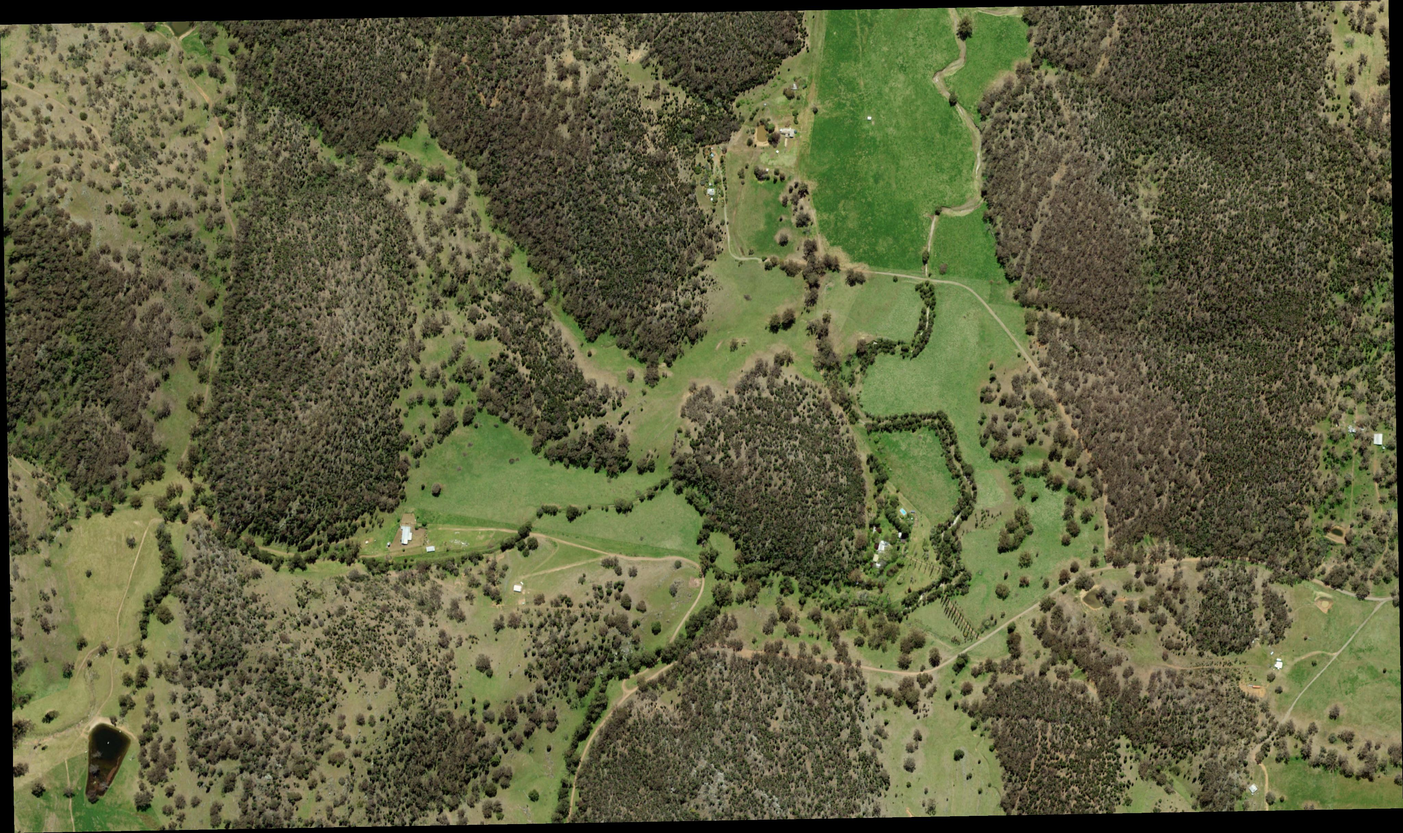
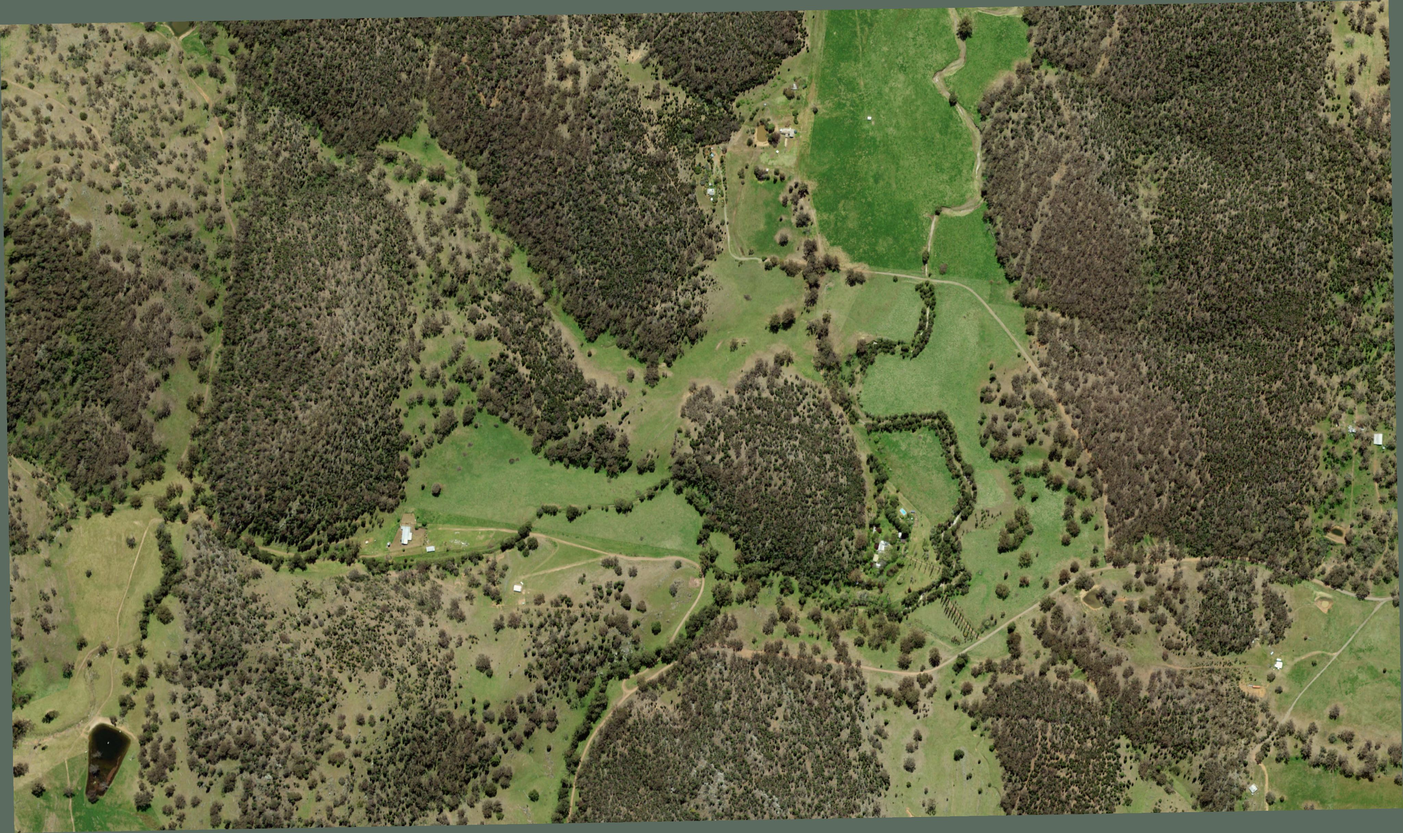
Add photos to entries and show the log on the property topo map
- Photos section: Take photo opens the camera, Choose from library picks
  one or more existing photos. Photos are shrunk to 1600 px, stored with
  the entry on the phone, shown as thumbnails in the form and the log,
  and open full screen when tapped. Edit keeps them; Log again starts
  without them. The CSV gains a photos_on_device count.
- The log history now draws entries on the property's topo map with the
  boundary and current position, and notes any entries outside the map.
  Falls back to the plain plot when no map is on the device.
- Example entries are placed on the property so they show on the map.
- Map images rebuilt without black edges from the reprojection.
- Offline cache bumped to v5.

Claude-Session: https://claude.ai/code/session_018RB8ziNUKSKUFR3o893bhx

Changed region(s): [[0.0, 0.3124, 1.0, 1.0], [0.0, 0.0, 0.875, 0.0312], [0.9688, 0.0, 1.0, 0.6872]]

diff --git a/index.html b/index.html
@@ -138,6 +138,7 @@ textarea { min-height: 84px; resize: vertical; }
 .filters button { border: 1px solid var(--line); background: transparent; border-radius: 999px; padding: 5px 12px; font-size: .85rem; min-height: 34px; }
 .filters button[aria-pressed="true"] { background: var(--ink); color: var(--surface); border-color: var(--ink); }
 .plot-box { background: var(--sunk); border-radius: var(--r); padding: 8px; }
+.plot-box .legend + .plot-note { margin-top: 2px; }
 .plot-box svg { display: block; width: 100%; height: auto; max-width: 100%; }
 .plot-box text { fill: var(--muted); font-family: var(--f-data); font-size: 9px; }
 .pt-control { fill: var(--control); } .pt-sighting { fill: var(--sight); } .pt-maintenance { fill: var(--maint); }
@@ -201,6 +202,26 @@ summary { cursor: pointer; font-weight: 700; }
 .mv-btns { display: flex; flex-wrap: wrap; gap: 8px; }
 .mv-btns .save { min-height: 46px; padding: 0 18px; flex: 1 1 180px; }
 .mv-btns .save:disabled { opacity: .45; }
+
+.photo-btns { display: flex; flex-wrap: wrap; gap: 8px; }
+.photo-btns .photo-take { background: var(--ink); color: var(--surface); border-color: var(--ink); }
+.thumbs { display: flex; flex-wrap: wrap; gap: 8px; }
+.thumbs:empty { display: none; }
+.thumb { position: relative; width: 84px; height: 84px; border-radius: 8px; overflow: hidden; border: 1px solid var(--line); background: var(--sunk); padding: 0; }
+.thumb img { width: 100%; height: 100%; object-fit: cover; display: block; }
+.thumb .rm { position: absolute; top: 4px; right: 4px; width: 26px; height: 26px; border-radius: 50%; border: 0; background: rgba(0,0,0,.65); color: #fff; font-size: 16px; line-height: 26px; padding: 0; }
+.ent-photos { display: flex; gap: 6px; flex-wrap: wrap; margin-top: 4px; }
+.ent-photos button { width: 64px; height: 64px; padding: 0; border: 1px solid var(--line); border-radius: 6px; overflow: hidden; background: var(--sunk); }
+.ent-photos img { width: 100%; height: 100%; object-fit: cover; display: block; }
+.lightbox { position: fixed; inset: 0; z-index: 25; background: rgba(0,0,0,.92); display: grid; grid-template-rows: minmax(0, 1fr) auto; gap: 12px;
+  padding: calc(16px + env(safe-area-inset-top, 0px)) 16px calc(16px + env(safe-area-inset-bottom, 0px)); }
+.lightbox img { width: 100%; height: 100%; object-fit: contain; }
+.lightbox .btn { justify-self: center; min-width: 140px; }
+.plot-map { position: relative; border-radius: 6px; overflow: hidden; }
+.plot-map img { display: block; width: 100%; height: auto; }
+.plot-map svg { position: absolute; inset: 0; width: 100%; height: 100%; }
+.plot-note { font-size: .8rem; color: var(--muted); padding: 4px 4px 0; }
+.plot-note:empty { display: none; }
 
 .toast { position: fixed; left: 50%; transform: translateX(-50%); bottom: calc(16px + env(safe-area-inset-bottom, 0px)); background: var(--ink); color: var(--surface); padding: 10px 16px; border-radius: 10px; font-weight: 600; max-width: calc(100% - 32px); z-index: 30; }
 </style>
@@ -304,6 +325,17 @@ summary { cursor: pointer; font-weight: 700; }
           <textarea id="comment" placeholder="Condition, behaviour, sex/age, calibre, follow-up needed…"></textarea>
         </div>
 
+        <div class="field">
+          <span class="lbl">Photos</span>
+          <div class="photo-btns">
+            <button type="button" class="btn photo-take" id="photoTake">Take photo</button>
+            <button type="button" class="btn" id="photoPick">Choose from library</button>
+            <input type="file" id="photoCam" accept="image/*" capture="environment" hidden>
+            <input type="file" id="photoLib" accept="image/*" multiple hidden>
+          </div>
+          <div class="thumbs" id="photoThumbs"></div>
+        </div>
+
         <div class="audio-draft" id="audioDraft" hidden></div>
 
         <button type="submit" class="save" id="saveBtn">Save entry</button>
@@ -325,8 +357,13 @@ summary { cursor: pointer; font-weight: 700; }
       <div class="tally" id="tally"></div>
 
       <div class="plot-box">
+        <div class="plot-map" id="plotMap" hidden>
+          <img id="plotImg" alt="Topographic map of the property with logged locations">
+          <svg id="plotSvg" preserveAspectRatio="none" aria-hidden="true"></svg>
+        </div>
         <svg id="plot" viewBox="0 0 320 170" role="img" aria-label="Plot of logged locations"></svg>
         <div class="legend"><span><i style="background:var(--control)"></i>Control</span><span><i style="background:var(--sight)"></i>Sighting</span><span><i style="background:var(--maint)"></i>Maintenance</span><span><i style="border:2px solid var(--accent)"></i>You</span></div>
+        <div class="plot-note" id="plotNote"></div>
       </div>
 
       <div class="notice" id="exNotice" hidden>
@@ -391,6 +428,10 @@ summary { cursor: pointer; font-weight: 700; }
     </div>
     <div class="hint" id="mapChangeNote" hidden></div>
   </div>
+</div>
+<div class="lightbox" id="lightbox" hidden role="dialog" aria-modal="true" aria-label="Photo">
+  <img id="lightboxImg" alt="Entry photo">
+  <button type="button" class="btn" id="lightboxClose">Close</button>
 </div>
 <div class="toast" id="toast" role="status" aria-live="polite" hidden></div>
 
@@ -497,6 +538,7 @@ let editLoc = null;            // location carried over from the entry being edi
 let mapPick = null;            // location chosen on the property map
 let whenMode = "now";          // "now" | "set"
 let draftAudio = null, draftTranscript = "";
+let draftPhotos = [];          // Blobs attached to the entry being written
 let observer = "", site = "", lastExportAt = 0;
 
 const uid = () => Date.now().toString(36) + Math.random().toString(36).slice(2, 7);
@@ -842,6 +884,45 @@ function renderAudioDraft() {
   $("#dropAudio").addEventListener("click", () => { draftAudio = null; renderAudioDraft(); });
 }
 
+/* ---------- Photos ---------- */
+const blobUrls = new WeakMap();
+const urlFor = (blob) => { let u = blobUrls.get(blob); if (!u) { u = URL.createObjectURL(blob); blobUrls.set(blob, u); } return u; };
+// Shrink to at most 1600 px on the long side so photos don't fill the phone; keeps the original if the browser can't decode it.
+async function shrinkPhoto(file) {
+  try {
+    const bmp = await createImageBitmap(file, { imageOrientation: "from-image" });
+    const k = Math.min(1, 1600 / Math.max(bmp.width, bmp.height));
+    const c = document.createElement("canvas"); c.width = Math.round(bmp.width * k); c.height = Math.round(bmp.height * k);
+    c.getContext("2d").drawImage(bmp, 0, 0, c.width, c.height); bmp.close && bmp.close();
+    const out = await new Promise((res) => c.toBlob(res, "image/jpeg", 0.82));
+    return out && out.size < file.size ? out : file;
+  } catch (e) { return file; }
+}
+async function addPhotos(files) {
+  const list = [...files].filter((f) => f.type.startsWith("image/") || /\.(jpe?g|png|heic|heif|webp)$/i.test(f.name));
+  if (!list.length) return;
+  for (const f of list) draftPhotos.push(await shrinkPhoto(f));
+  renderPhotoThumbs();
+  toast(list.length === 1 ? "Photo added" : `${list.length} photos added`);
+}
+function renderPhotoThumbs() {
+  $("#photoThumbs").innerHTML = draftPhotos.map((b, i) =>
+    `<div class="thumb"><img src="${urlFor(b)}" alt="Photo ${i + 1}"><button type="button" class="rm" data-i="${i}" aria-label="Remove photo ${i + 1}">×</button></div>`).join("");
+}
+$("#photoTake").addEventListener("click", () => $("#photoCam").click());
+$("#photoPick").addEventListener("click", () => $("#photoLib").click());
+["#photoCam", "#photoLib"].forEach((id) => $(id).addEventListener("change", async (ev) => {
+  await addPhotos(ev.target.files); ev.target.value = "";
+}));
+$("#photoThumbs").addEventListener("click", (ev) => {
+  const rm = ev.target.closest(".rm");
+  if (rm) { draftPhotos.splice(+rm.dataset.i, 1); renderPhotoThumbs(); return; }
+  const img = ev.target.closest(".thumb img"); if (img) openPhoto(img.src);
+});
+function openPhoto(src) { $("#lightboxImg").src = src; $("#lightbox").hidden = false; }
+$("#lightboxClose").addEventListener("click", () => { $("#lightbox").hidden = true; });
+$("#lightbox").addEventListener("click", (ev) => { if (ev.target.id === "lightbox") $("#lightbox").hidden = true; });
+
 /* ---------- Save / edit ---------- */
 function setFormMode(mode) {
   $("#entryH").textContent = mode === "edit" ? "Edit entry" : mode === "copy" ? "Log again" : "New entry";
@@ -855,6 +936,7 @@ function resetForm() {
   $("#species").value = ""; $("#qty").value = "1"; $("#comment").value = ""; $("#transcript").value = ""; $("#parsed").textContent = "";
   $("#loggedBy").value = observer; $("#loggedBy").closest(".field").classList.remove("invalid");
   draftAudio = null; draftTranscript = ""; renderAudioDraft();
+  draftPhotos = []; renderPhotoThumbs();
   setWhenMode("now"); setLocMode("gps"); syncUnitFromSpecies(); renderSugg();
 }
 $("#cancelEdit").addEventListener("click", resetForm);
@@ -886,6 +968,7 @@ $("#form").addEventListener("submit", async (ev) => {
     comment: $("#comment").value.trim(),
     transcript: draftTranscript || (prev ? prev.transcript : ""),
     audio: draftAudio || (prev ? prev.audio : null),
+    photos: draftPhotos.slice(),
     observer: by, site, example: false
   };
   try { await store.put(e); }
@@ -903,6 +986,7 @@ function loadIntoForm(e, mode) {
   if (mode === "edit") { $("#transcript").value = e.transcript || ""; draftTranscript = e.transcript || ""; $("#loggedBy").value = e.observer || observer; }
   else { $("#transcript").value = ""; draftTranscript = ""; $("#loggedBy").value = observer || e.observer || ""; }
   draftAudio = null; renderAudioDraft();
+  draftPhotos = mode === "edit" ? (e.photos || []).slice() : []; renderPhotoThumbs();
   if (mode === "edit") setWhenMode("set", e.ts); else setWhenMode("now");
   if (e.lat != null) { setLocMode("kept"); editLoc = { lat: e.lat, lon: e.lon, acc: e.acc, alt: e.alt, src: e.src, copied: mode === "copy" }; renderLocRead(); }
   else setLocMode("gps");
@@ -952,6 +1036,7 @@ function renderLog() {
         ${e.sci ? `<div class="sci">${esc(e.sci)}</div>` : ""}
         <div class="ent-meta">${dateStr(d)} ${timeStr(d)} · ${loc}${e.observer ? " · " + esc(e.observer) : ""}</div>
         ${e.comment ? `<div class="ent-cmt">${esc(e.comment)}</div>` : ""}
+        ${e.photos && e.photos.length ? `<div class="ent-photos">${e.photos.map((b, i) => `<button type="button" data-act="photo" data-i="${i}" aria-label="Open photo ${i + 1}"><img src="${urlFor(b)}" alt=""></button>`).join("")}</div>` : ""}
         <div class="ent-act">
           ${e.audio ? `<button type="button" class="btn" data-act="play">Play memo</button>` : ""}
           <button type="button" class="btn" data-act="again">Log again</button>
@@ -973,6 +1058,7 @@ $("#list").addEventListener("click", async (ev) => {
   const li = b.closest("li"); const id = li.dataset.id; const e = entries.find((x) => x.id === id);
   if (b.dataset.act === "edit") startEdit(id);
   if (b.dataset.act === "again") startCopy(id);
+  if (b.dataset.act === "photo" && e && e.photos) openPhoto(urlFor(e.photos[+b.dataset.i]));
   if (b.dataset.act === "play" && e && e.audio) {
     li.querySelector(".play-slot").innerHTML = `<audio controls autoplay src="${URL.createObjectURL(e.audio)}" style="max-width:100%"></audio>`;
   }
@@ -997,6 +1083,9 @@ $("#filters").addEventListener("click", (ev) => {
 
 /* ---------- Location plot (no basemap, so it works offline) ---------- */
 function renderPlot() {
+  const topo = pmap && pmap.layers.find((l) => l.id === "topo");
+  if (topo) { renderPlotOnMap(topo); return; }
+  $("#plotMap").hidden = true; $("#plot").removeAttribute("hidden"); $("#plotNote").textContent = "";
   const svg = $("#plot"); const W = 320, H = 170, P = 18;
   const pts = visible().filter((e) => e.lat != null);
   const all = pts.map((e) => [e.lat, e.lon]); if (fix) all.push([fix.lat, fix.lon]);
@@ -1033,17 +1122,40 @@ function renderPlot() {
   svg.innerHTML = g;
 }
 
+// Log locations drawn on the property's topo map
+function renderPlotOnMap(topo) {
+  const W = topo.width, H = topo.height, b = pmap.bounds;
+  const img = $("#plotImg"); const src = pmap.base + topo.src;
+  if (img.getAttribute("src") !== src) img.setAttribute("src", src);
+  $("#plotMap").hidden = false; $("#plot").setAttribute("hidden", "");
+  const xy = (lon, lat) => [(lon - b.west) / (b.east - b.west) * W, (b.north - lat) / (b.north - b.south) * H];
+  const inside = ([x, y]) => x >= 0 && y >= 0 && x <= W && y <= H;
+  const u = W / 300;   // one "screen-ish" unit at the plot's usual width
+  let g = pmap.boundary ? pmap.boundary.map((r) => `<polyline points="${r.map(([lo, la]) => xy(lo, la).map((v) => v.toFixed(1)).join(",")).join(" ")}" fill="none" stroke="#e2580b" stroke-width="${(1.6 * u).toFixed(2)}" stroke-dasharray="${(5 * u).toFixed(1)} ${(3 * u).toFixed(1)}"/>`).join("") : "";
+  const col = { control: "var(--control)", sighting: "var(--sight)", maintenance: "var(--maint)" };
+  let outside = 0;
+  for (const e of visible()) {
+    if (e.lat == null) continue;
+    const p = xy(e.lon, e.lat); if (!inside(p)) { outside++; continue; }
+    const r = (4 + Math.min(4, Math.sqrt(e.cat === "maintenance" ? 1 : (+e.qty || 1)))) * u;
+    g += `<circle cx="${p[0].toFixed(1)}" cy="${p[1].toFixed(1)}" r="${r.toFixed(1)}" style="fill:${col[e.cat]}" fill-opacity="${e.example ? 0.6 : 0.9}" stroke="#fff" stroke-width="${(1.2 * u).toFixed(2)}"><title>${esc(e.sp)} ×${esc(e.qty)}</title></circle>`;
+  }
+  if (fix) { const p = xy(fix.lon, fix.lat); if (inside(p)) g += `<circle cx="${p[0].toFixed(1)}" cy="${p[1].toFixed(1)}" r="${(6 * u).toFixed(1)}" fill="none" style="stroke:var(--accent)" stroke-width="${(2.5 * u).toFixed(1)}"/>`; }
+  const svg = $("#plotSvg"); svg.setAttribute("viewBox", `0 0 ${W} ${H}`); svg.innerHTML = g;
+  $("#plotNote").textContent = outside ? `${outside} ${outside === 1 ? "entry is" : "entries are"} outside this property map and not shown.` : "";
+}
+
 /* ---------- CSV export ---------- */
 const COLS = ["entry_id", "date_local", "time_local", "timestamp_utc", "category", "species_or_task", "scientific_name", "quantity", "unit",
   "method_or_status", "latitude_wgs84", "longitude_wgs84", "gps_accuracy_m", "altitude_m", "location_source", "observer", "site",
-  "comments", "voice_transcript", "voice_memo_on_device", "entered_utc", "last_edited_utc"];
+  "comments", "voice_transcript", "voice_memo_on_device", "photos_on_device", "entered_utc", "last_edited_utc"];
 const csvCell = (v) => { const s = v == null ? "" : String(v); return /[",\n\r]/.test(s) ? '"' + s.replace(/"/g, '""') + '"' : s; };
 function buildCsv() {
   const rows = entries.filter((e) => !e.example).slice().sort((a, b) => a.ts - b.ts).map((e) => {
     const d = new Date(e.ts);
     return [e.id, dateStr(d), `${timeStr(d)}:${pad(d.getSeconds())}`, d.toISOString(), CATS[e.cat].label, e.sp, e.sci, e.qty, e.unit,
       e.method, fmt6(e.lat), fmt6(e.lon), e.acc != null ? Math.round(e.acc * 10) / 10 : "", e.alt != null ? Math.round(e.alt) : "",
-      e.src, e.observer, e.site, e.comment, e.transcript, e.audio ? "yes" : "no", new Date(e.logged || e.ts).toISOString(), e.edited ? new Date(e.edited).toISOString() : ""].map(csvCell).join(",");
+      e.src, e.observer, e.site, e.comment, e.transcript, e.audio ? "yes" : "no", (e.photos || []).length, new Date(e.logged || e.ts).toISOString(), e.edited ? new Date(e.edited).toISOString() : ""].map(csvCell).join(",");
   });
   return [COLS.join(",")].concat(rows).join("\r\n") + "\r\n";
 }
@@ -1110,7 +1222,7 @@ $("#clearEx").addEventListener("click", async () => {
 function examples() {
   const base = new Date(); base.setHours(6, 40, 0, 0);
   const at = (h, m) => base.getTime() + (h * 60 + m) * 60000;
-  const L = [-34.48712, 148.71534];
+  const L = [-32.7545, 148.8860];
   const mk = (o) => Object.assign({ id: "ex-" + uid(), edited: null, alt: 512, src: "gps", observer: "Example ranger", site: "Example reserve", transcript: "", audio: null, example: true }, o);
   return [
     mk({ ts: at(0, 0), cat: "control", sp: "Feral pig", sci: "Sus scrofa", qty: 3, unit: "head", method: "Shot – ground", lat: L[0], lon: L[1], acc: 6, comment: "Sow and two juveniles rooting along the north dam wall. .308." , transcript: "shot three feral pigs at the north dam" }),
@@ -1290,7 +1402,7 @@ $("#installBtn").addEventListener("click", async () => {
   installPrompt = null; $("#installBtn").hidden = true;
 });
 function formInProgress() {
-  return !!($("#species").value.trim() || $("#comment").value.trim() || $("#transcript").value.trim() || draftAudio || editingId || recording || !$("#mapView").hidden);
+  return !!($("#species").value.trim() || $("#comment").value.trim() || $("#transcript").value.trim() || draftAudio || draftPhotos.length || editingId || recording || !$("#mapView").hidden);
 }
 function registerOffline() {
   if (!("serviceWorker" in navigator) || (location.protocol !== "https:" && location.hostname !== "localhost") || !document.querySelector('link[rel="manifest"]')) return;
@@ -1328,6 +1440,7 @@ async function boot() {
   onCatChange(); renderSettings(); renderNet(); renderLog();
   $("#voiceStatus").innerHTML = voiceIdleText();
   startGps(); renderGps();
+  loadMap().then(() => renderPlot());
   registerOffline();
 }
 boot();

diff --git a/sw.js b/sw.js
@@ -1,6 +1,6 @@
 // Keeps the whole app on the phone so it opens with no signal.
 // Bump VERSION whenever any file below changes so phones refresh their saved copies.
-const VERSION = "field-log-v4";
+const VERSION = "field-log-v5";
 const FILES = [
   "./",
   "./index.html",

diff --git a/README.md b/README.md
@@ -11,7 +11,9 @@ Each entry records the species or task (with scientific name), quantity and unit
 - **Date and time:** *Log as now* uses the current time; change the date/time field to log something after the fact. The CSV keeps both the observation time and when it was entered.
 - **Logged by** is required and is remembered for the next entry.
 - **Location:** *Live GPS*, or *Use map* to tap the spot on the offline property map (aerial photo or topo, opening on whichever was used last). Map points are tagged `map-aerial` / `map-topo` with an estimated accuracy.
-- **Log again** on any entry copies it into the form with the current time and the same location, ready to check and save. Tap the microphone to log by voice: “shot three feral pigs at the north dam” fills in the form, and the recording is kept as an audio memo. Export everything as CSV for a spreadsheet or GIS.
+- **Log again** on any entry copies it into the form with the current time and the same location, ready to check and save.
+- **Photos:** *Take photo* opens the camera; *Choose from library* picks one or more existing photos. Photos are shrunk to 1600 px and stored with the entry on the phone; the CSV records how many each entry has (`photos_on_device`).
+- **Log history map:** logged points are drawn on the property's topo map, with the boundary and your current position. Tap the microphone to log by voice: “shot three feral pigs at the north dam” fills in the form, and the recording is kept as an audio memo. Export everything as CSV for a spreadsheet or GIS.
 
 **Works offline.** After the app is opened once with signal, it runs with no internet at all. Entries are stored only on the phone; nothing is sent anywhere. This repository holds the app's code, never field data.
 
